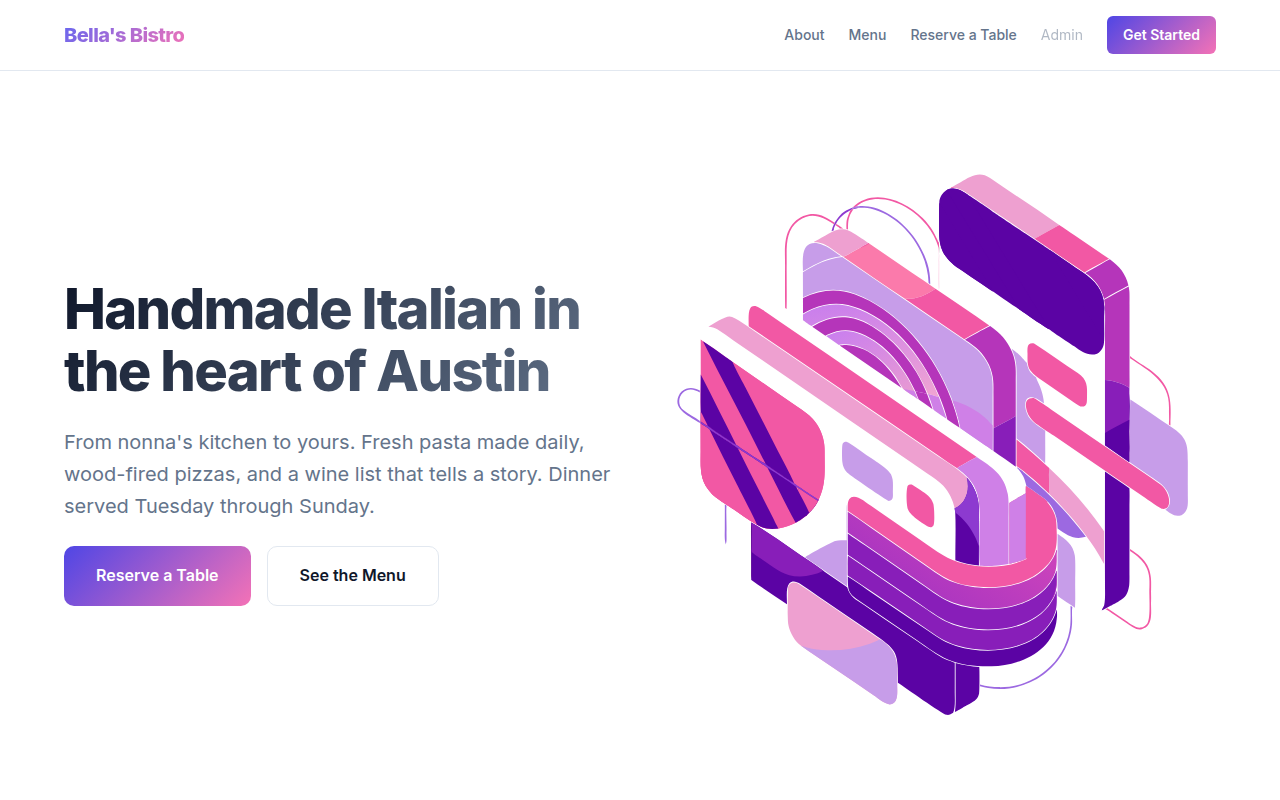
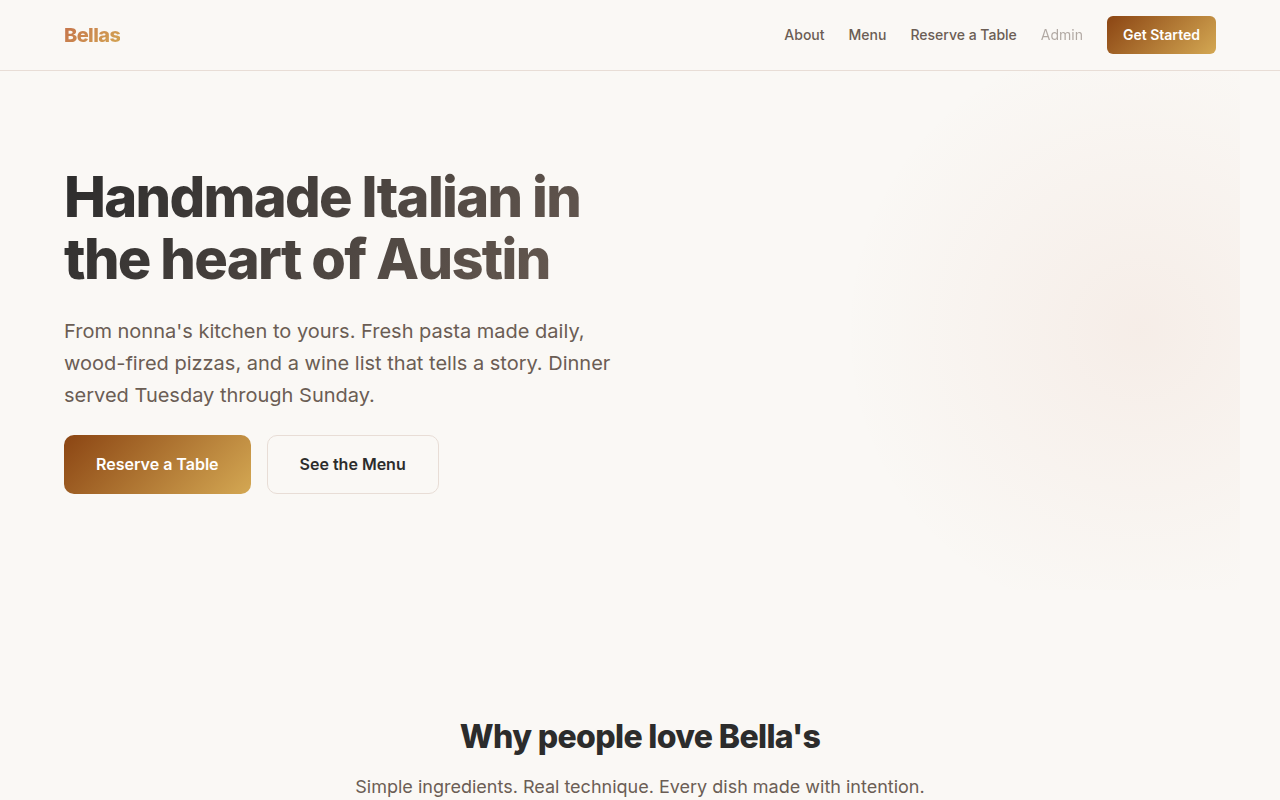
Fresh screenshots after visual redesign + Jensen review #004
Bella's Bistro: terracotta/gold Italian palette (was purple template)
Peak Dental: teal/green clinical palette (was purple template)
Craft & Co: portfolio with project images (unchanged)

Three sites that now look visually distinct — not siblings.
Jensen review #004: each demo needs unique visual identity.

diff --git a/rounds/board-review-004.md b/rounds/board-review-004.md
@@ -1,0 +1,33 @@
+# Board Review #004 — Jensen Huang
+
+**Date**: 2026-04-03
+**Commits reviewed**: 21 PRs merged, 3 live demo sites, 1 main site
+**Agency state**: OPERATIONAL — sites live, ongoing polish
+
+## Assessment
+
+The agency crossed a critical threshold this session: live demo sites that prospects can visit. Three EmDash sites running on DigitalOcean with Caddy reverse proxy, HTTPS via Let's Encrypt, and custom content. The portfolio page shows real screenshots in browser mockups. This is no longer a pitch deck — it's proof of work.
+
+The dispatch pattern improved significantly. Content writers, QA auditors, and designers are now spawning in parallel. Margaret filed a real QA report that found template emails, broken footer links, and missing alt text — all fixed within minutes by parallel agents.
+
+## Concern: The Sites Still Look Like Siblings
+
+All three demo sites share the same EmDash marketing template: identical layout, identical purple/pink gradient, identical abstract SVG hero image. The content is differentiated (Italian restaurant vs dental practice vs design agency) but the visual identity is not. A prospect visiting all three will immediately see they're the same template with different words.
+
+This matters because Shipyard AI's value proposition is "we build custom sites, not templates." If the portfolio showcases three sites that visually look like templates, the pitch contradicts itself.
+
+## Recommendation
+
+**Each demo site needs a distinct visual identity: unique color palette, unique hero treatment, unique typography pairing.**
+
+The design agents are already working on this (terracotta for Bella's, teal for dental). Go further:
+
+1. Bella's Bistro: warm serif typography (Playfair Display), earthy palette, remove the abstract SVG entirely — use a solid color hero with large text
+2. Peak Dental: clean sans-serif (already Inter), clinical blue/white, geometric accent shapes instead of the organic blobs
+3. Craft & Co: the portfolio template already looks different — just ensure the project images load correctly
+
+Three sites that look like three different agencies built them. That's the demo that sells.
+
+---
+
+*Previous topics (not repeated): #001 free pilot, #002 deploy gap, #003 token tracking.*
